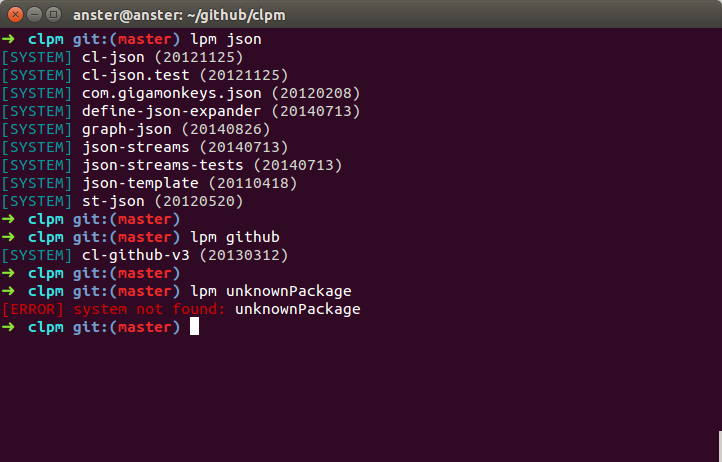
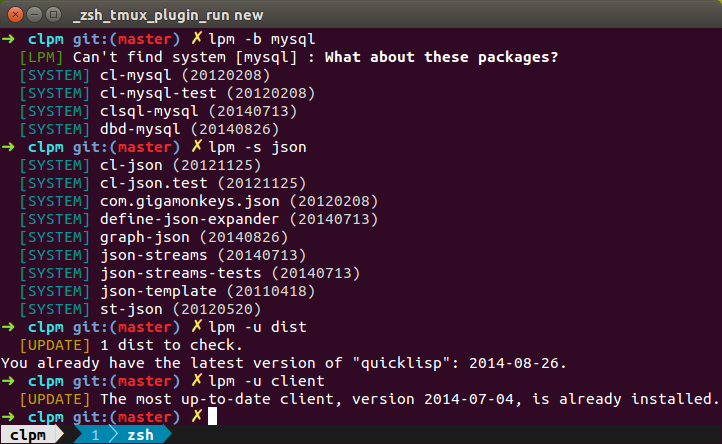
working with sinon.js

Changed region(s): [[0.0, 0.0, 0.7922, 1.0], [0.4875, 0.8784, 1.0, 0.9077], [0.9751, 0.9369, 1.0, 1.0]]

diff --git a/lib/commands/browse.js b/lib/commands/browse.js
@@ -20,11 +20,8 @@ function preBrowse (system, callback) {
     if (err) throw err; // case: request module error
     if (res.statusCode != 200) {
       // case: Page not found
-      // print related search result instead of opening the browser
-      var message = util.format("Can't find system [%s] : ", system);
-      var bold = "What about these packages?";
-      log.lpm(message, bold);
-      search(system);
+      // throw an "Can't find system" error
+      callback(new Error("Can't find system"));
     } else {
       callback(null);
     }
@@ -41,10 +38,23 @@ function browse(system) {
   // check whether the page exists or not before open browser
   preBrowse(system, function(preBrowseErr) {
 
-    if (preBrowseErr) throw preBrowseErr;
-    // case: No Error, No 404
+    if (preBrowseErr) {
+      // case: No Error, No 404
+      // print elated search result instead of opening the browser
+      var message = util.format("Can't find system [%s] : ", system);
+      var bold = "What about these packages?";
+      log.lpm(message, bold);
+      search(system);
+      return; 
+    }
+
+    // case: the quickdocs url is valid
     exec(cmd, function(execErr, stdout, stderr) {
-      if (execErr) throw execErr;
+      if (execErr) {
+	throw execErr;
+      }
+
+      log.lpm('Running : ', cmd);
     });
   });
 }

diff --git a/test/test.js b/test/test.js
@@ -1,5 +1,6 @@
 // require modules
 var should = require('should');
+var sinon = require('sinon');
 
 // custom modules
 var parseSystem = require('../lib/commands/search').parseSystem;
@@ -39,14 +40,12 @@ describe('file: log.js', function() {
 });
 
 // this test should be run under networking enable environment
-describe('file: browse.js', function() {
-  describe('#preBrowse', function() {
-    it("should never call the callback when statusCode != 200", function(done) {
-      preBrowse('NonExistsSystem#', function(err) {
-	should.exist(err);
-	err.message.should.equal('Page not found');
-	done();
-      });
-    });
-  });
-});
+// describe('file: browse.js', function() {
+//   describe('#preBrowse', function() {
+//     it("should never call the callback when statusCode != 200", function(done) {
+//       var callback = sinon.stub().yields(done);
+//       preBrowse('NonExistsSystem', callback);
+//       done();
+//     });
+//   });
+// });

diff --git a/README.md b/README.md
@@ -2,8 +2,11 @@
 
 [![Build Statue](https://travis-ci.org/1ambda/clpm.svg?branch=master)](https://travis-ci.org/1ambda/clpm)
 
-> current version is 0.1.9. Support Ubuntu, SBCL only
+> current version is 0.2.0. Support Ubuntu, SBCL only
 > But We have plan to support other OS and other lisp impl such as Clisp  
+
+<br/>
+![Common Lisp Package Manager](https://raw.githubusercontent.com/1ambda/clpm/master/images/screenshot1.png)
 
 ### Installation
 
